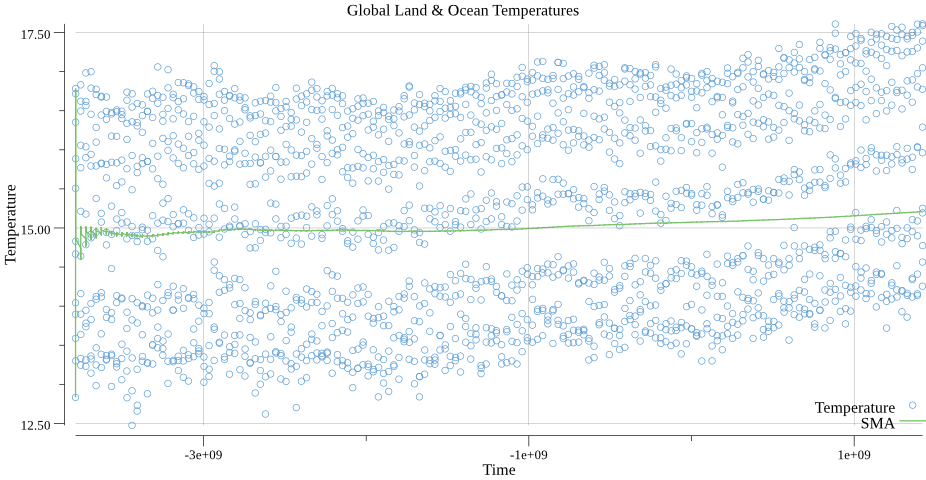
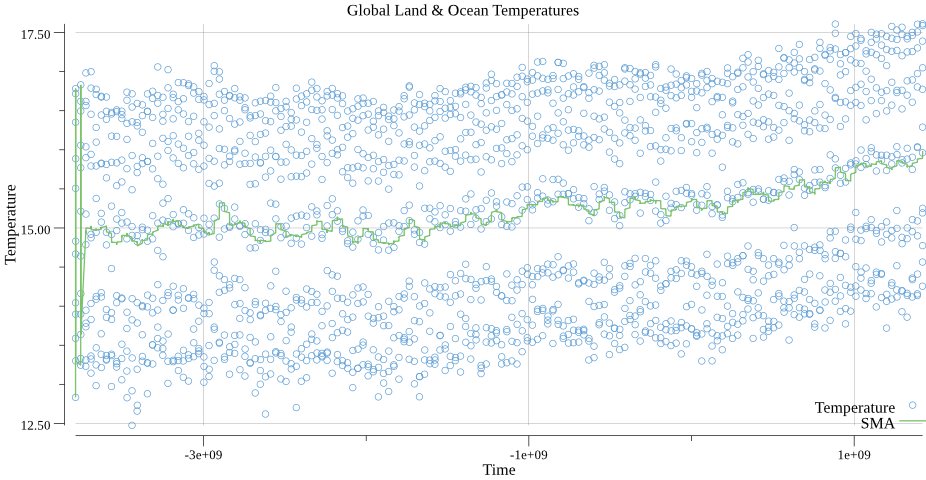
improve example qplot

diff --git a/contrib/gonum/qplot/qplot_test.go b/contrib/gonum/qplot/qplot_test.go
@@ -27,21 +27,16 @@ func maybe(t *testing.T, err error) {
 	}
 }
 
-func FilterNaN(col string) qframe.Filter {
-	return qframe.Filter{
-		Column:     col,
-		Comparator: func(f float64) bool { return !math.IsNaN(f) },
-	}
-}
-
-// SMAFn returns a function for computing SMA
-func SMAFn(n int) func(float64) float64 {
+// SlidingWindow returns a function that finds
+// the average of n time periods.
+func SlidingWindow(n int) func(float64) float64 {
 	var buf []float64
 	return func(value float64) float64 {
-		buf = append(buf, value)
 		if len(buf) < n {
+			buf = append(buf, value)
 			return value
 		}
+		buf = append(buf[1:len(buf)], value)
 		return stat.Mean(buf, nil)
 	}
 }
@@ -53,7 +48,10 @@ func ExampleQPlot(t *testing.T) {
 
 	qf := qframe.ReadCSV(fp)
 	// Filter out any missing values
-	qf = qf.Filter(FilterNaN("LandAndOceanAverageTemperature"))
+	qf = qf.Filter(qframe.Filter{
+		Column:     "LandAndOceanAverageTemperature",
+		Comparator: func(f float64) bool { return !math.IsNaN(f) },
+	})
 	// QFrame does not yet have native support for timeseries
 	// data so we convert the timestamp to epoch time.
 	qf = qf.Apply(qframe.Instruction{
@@ -65,11 +63,11 @@ func ExampleQPlot(t *testing.T) {
 		SrcCol1: "dt",
 		DstCol:  "time",
 	})
-	// Compute an SMA of the temperatures
-	sma := SMAFn(10)
+	// Compute the average of the last 2 years of temperatures.
+	window := SlidingWindow(24)
 	qf = qf.Apply(qframe.Instruction{
 		Fn: func(value float64) float64 {
-			return sma(value)
+			return window(value)
 		},
 		SrcCol1: "LandAndOceanAverageTemperature",
 		DstCol:  "SMA",
